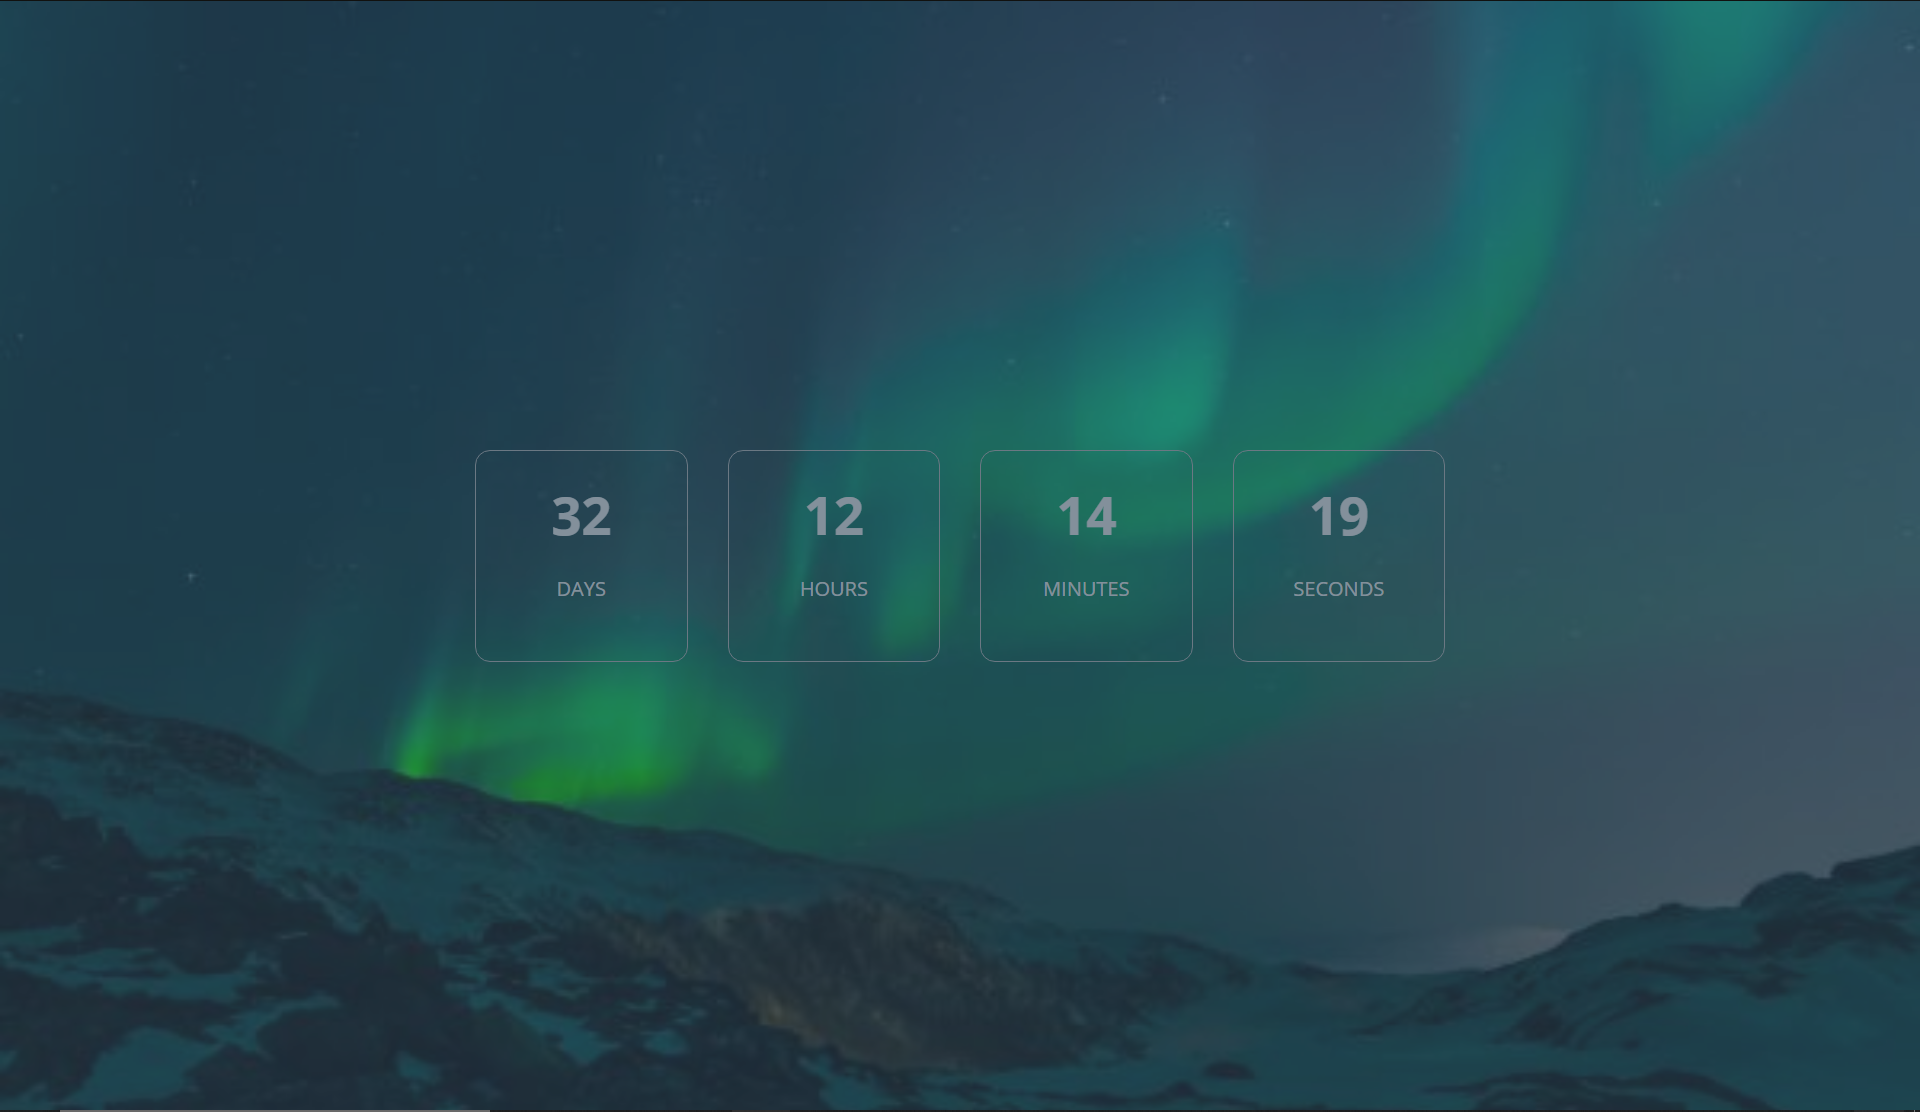
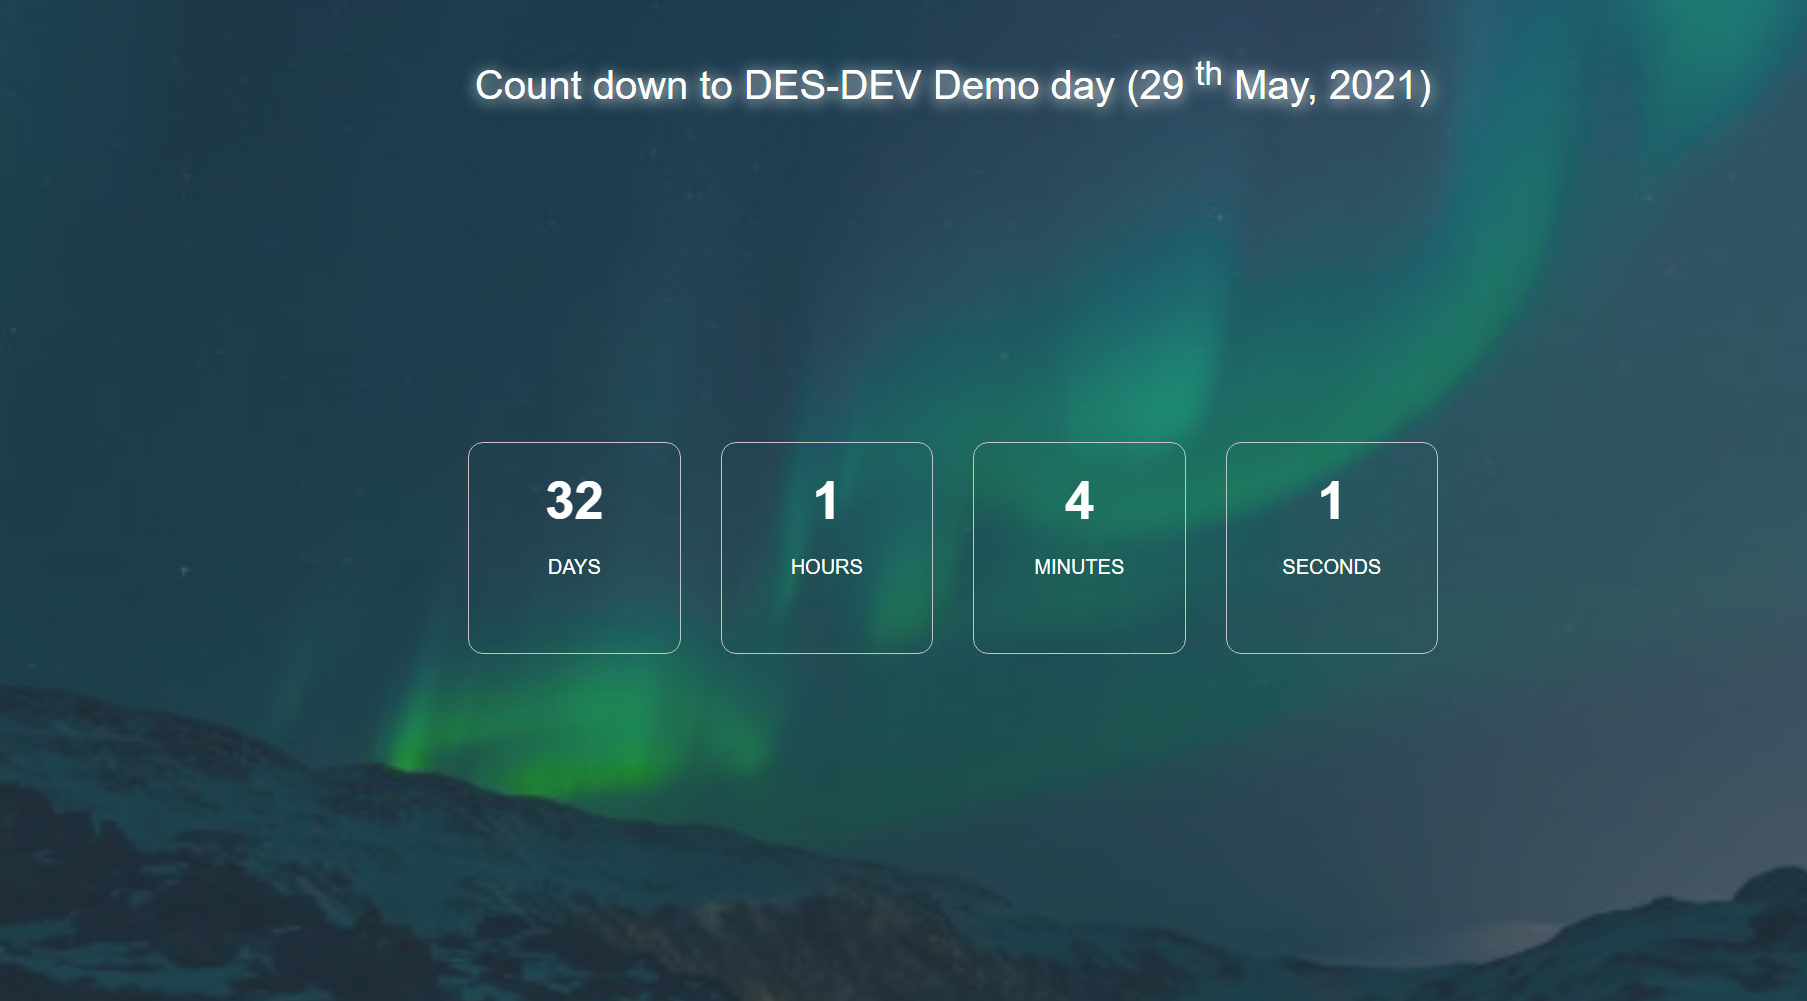
refactor: update code and images

diff --git a/css/reference-style.css b/css/reference-style.css
@@ -17,6 +17,7 @@ body {
   position: relative;
   width: 100vw;
   height: 100vh;
+  overflow: hidden;
 }
 
 body::before {
@@ -42,6 +43,17 @@ a:hover {
   text-decoration: none;
 }
 
+
+.text {
+  color: #fff;
+  text-shadow: 0px 1px 12px #fff;
+  font-size: 2rem;
+  text-align: center;
+  position: relative;
+  top: 3rem;
+  margin: auto 1rem;
+}
+
 .countdown-container {
   display: flex;
   flex-direction: row;
@@ -50,7 +62,7 @@ a:hover {
   align-content: center;
   flex-wrap: wrap;
   width: 100%;
-  height: 100%;
+  height: 90%;
   margin: auto;
 }
 
@@ -65,6 +77,7 @@ a:hover {
   -ms-border-radius: 12px;
   -o-border-radius: 12px;
   text-align: center;
+  position: relative;
 }
 
 .countdown-container .heading-text {

diff --git a/index.html b/index.html
@@ -21,11 +21,17 @@
     <!--Main CSS File -->
     <link href="css/style.css" rel="stylesheet">
 
+    <!-- Below is a reference style -->
+    <!-- <link href="css/reference-style.css" rel="stylesheet"> -->
+
   </head>
 
   <body>
 
     <!-- Countdown container -->
+    <div class="text">
+      Count down to DES-DEV Demo day (29 <sup>th</sup> May, 2021)
+    </div>
     <div class="countdown-container">
       <div class="count-down">
         <h4 class="heading-text" id="countDay"></h4>

diff --git a/css/style.css b/css/style.css
@@ -17,6 +17,7 @@ body {
   position: relative;
   width: 100vw;
   height: 100vh;
+  overflow: hidden;
 }
 
 body::before {
@@ -40,4 +41,22 @@ a {
 a:hover {
   color: #36d8c3;
   text-decoration: none;
+}
+
+
+.text {
+  color: #fff;
+  text-shadow: 0px 1px 12px #fff;
+  font-size: 2rem;
+  text-align: center;
+  position: relative;
+  top: 3rem;
+  margin: auto 1rem;
+}
+
+
+@media (min-width: 1024px) {
+  body {
+    background-attachment: fixed;
+  }
 }
